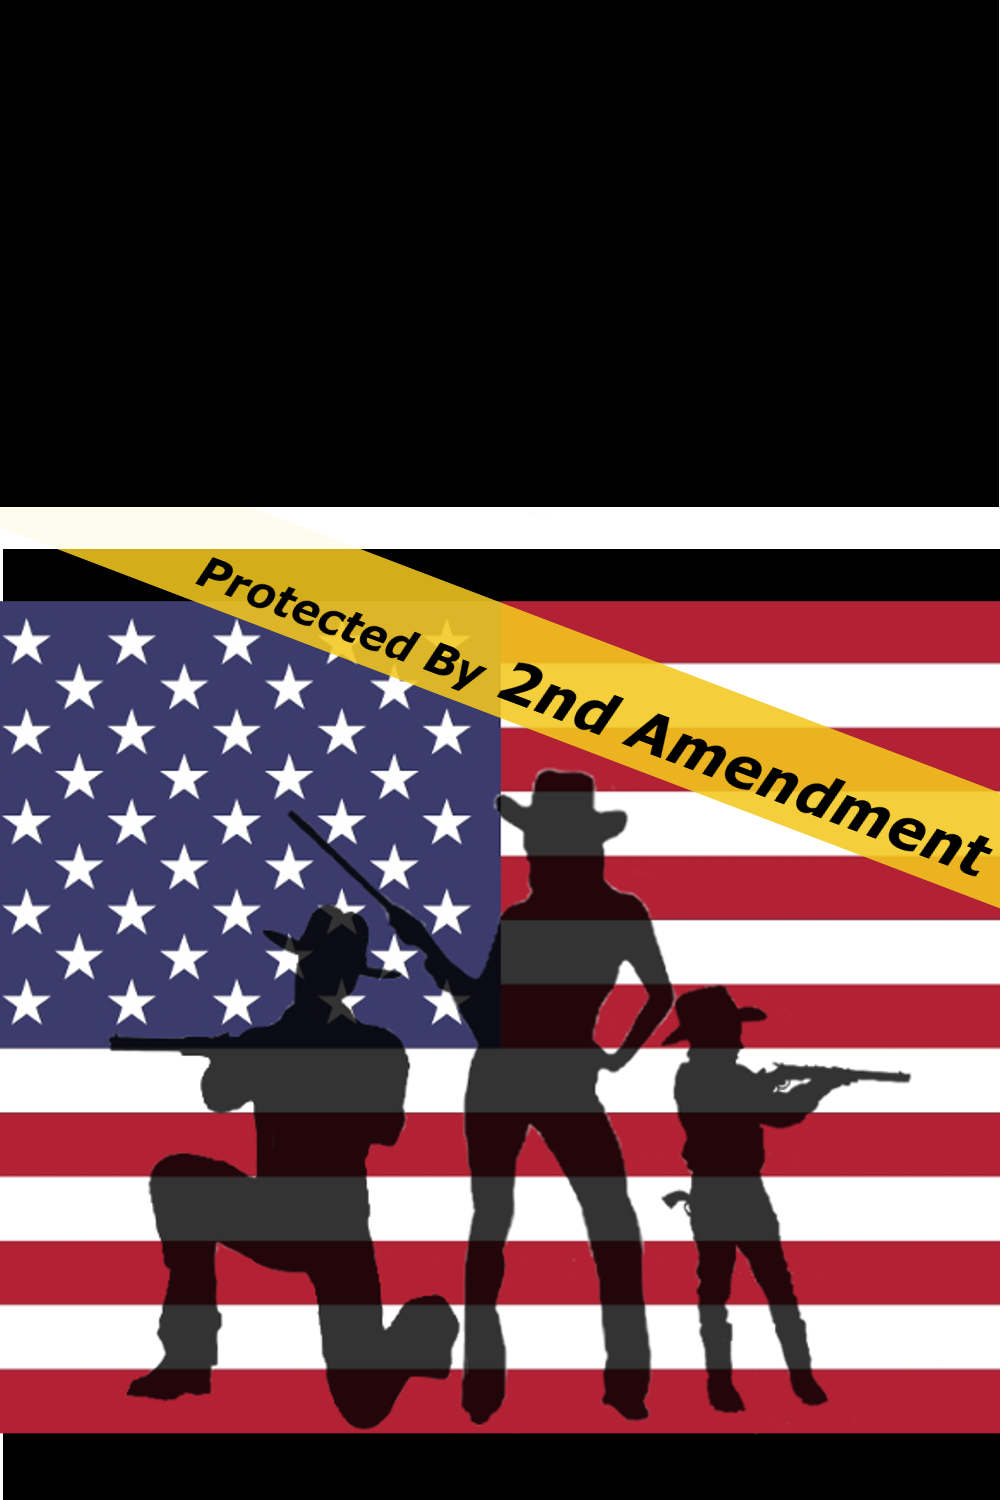
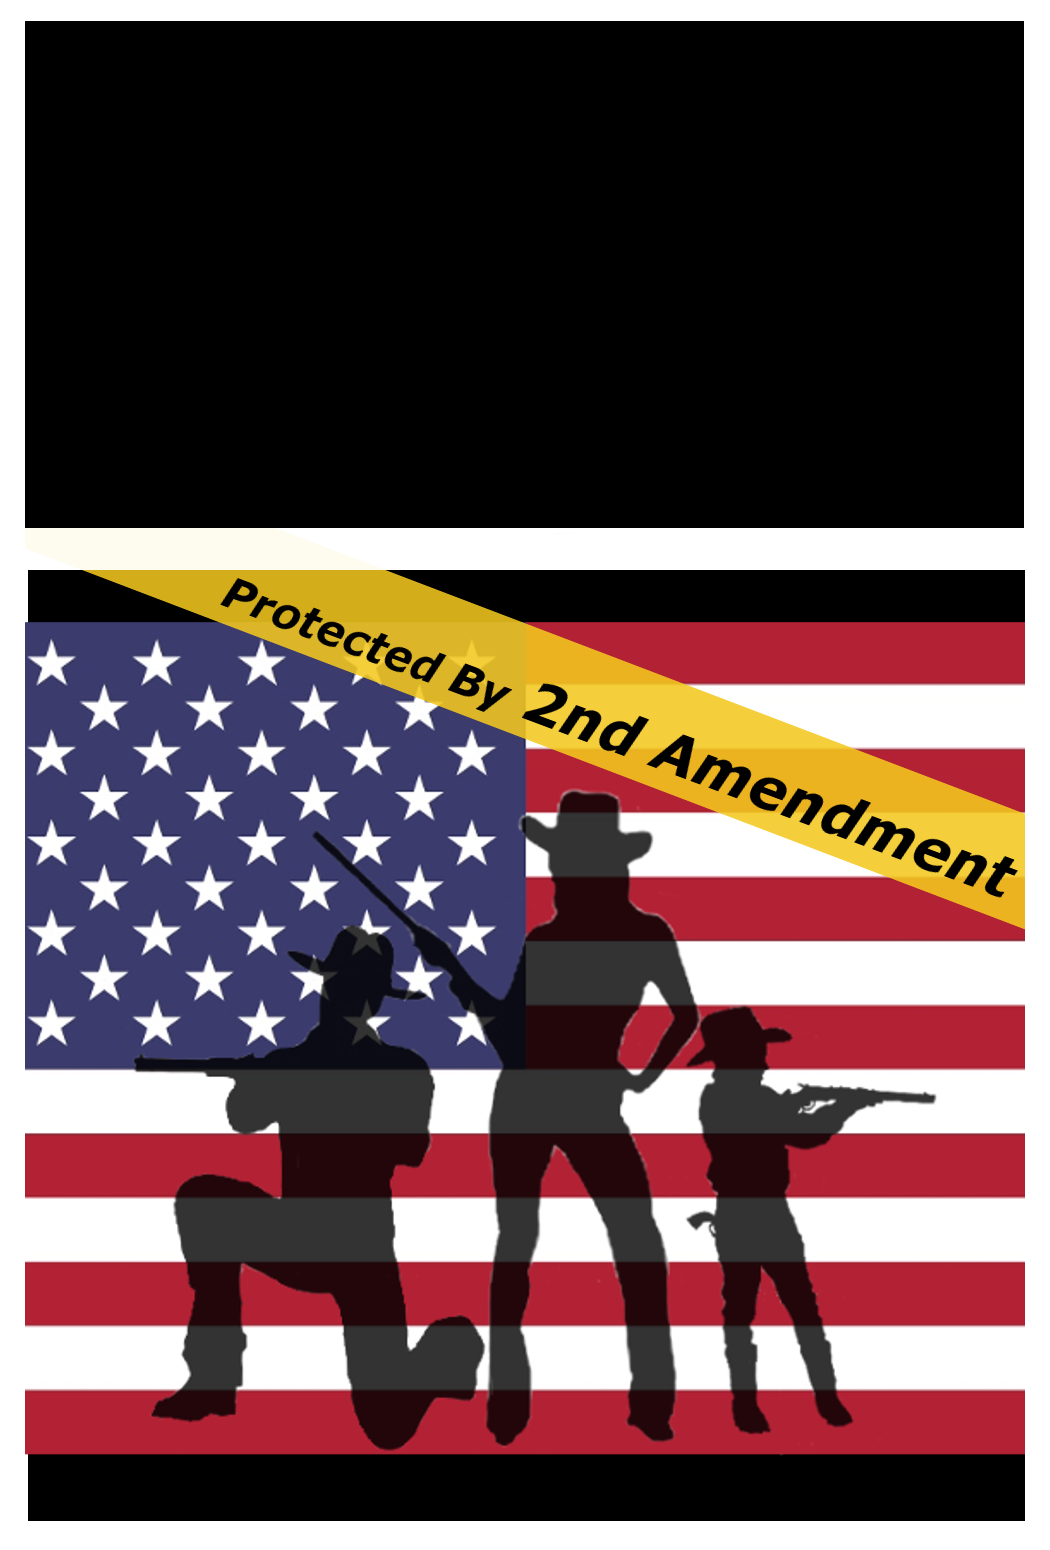
Black background

Changed region(s): [[0.0, 0.0, 1.0, 1.0]]

diff --git a/index.html b/index.html
@@ -14,7 +14,9 @@
       border-radius: 0;
     }
 	
-	
+	body {
+		background-color: black;
+	}
 	
 	jumbotron {
 	  padding: 10px;
